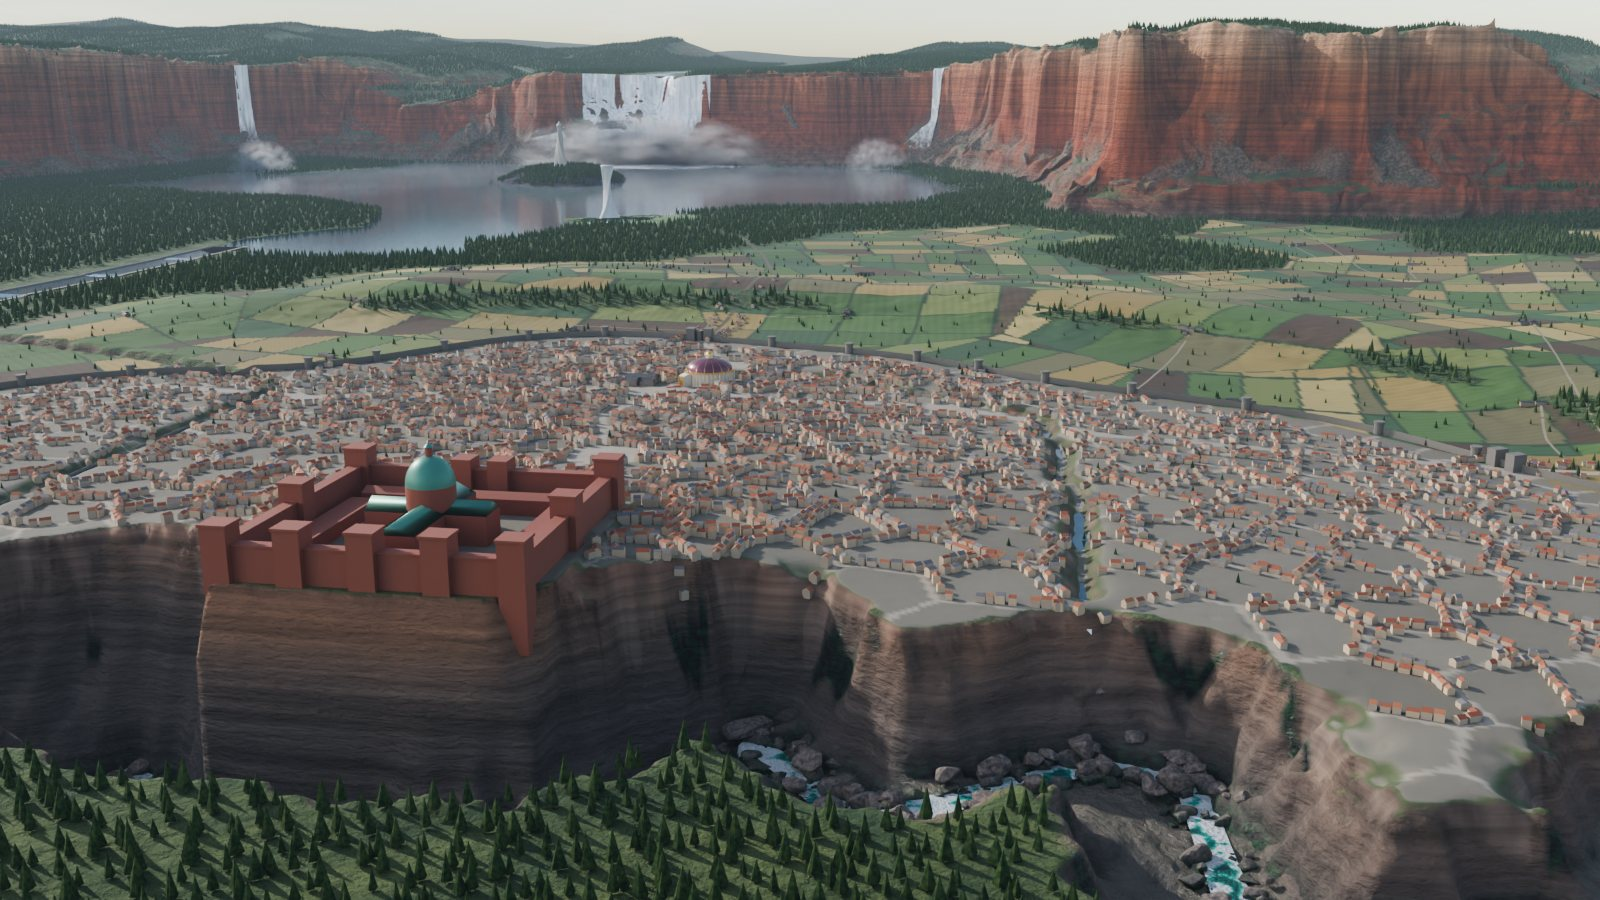
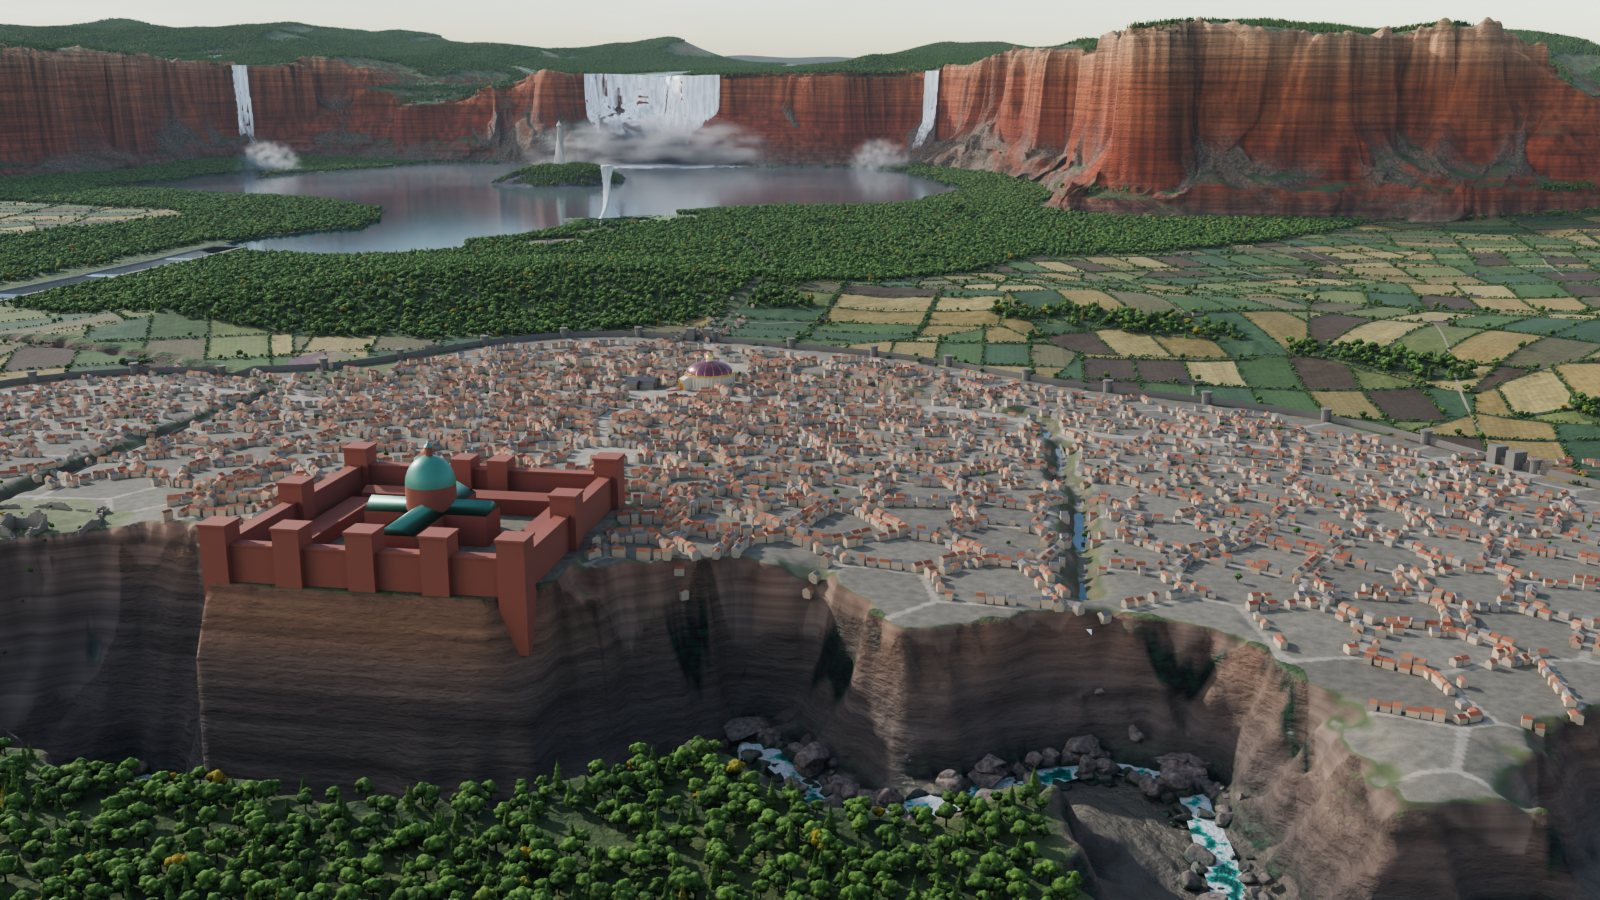
The barony joined to the road: Shadowmoon on the south bank, the Way along the river
Shadowmoon Village now has a place: the Rauvin's south bank, south-east of New
Kossenberg, with a ferry to the Trade Way. Luumsh's tribe settled there directly,
so Old Kossenberg is only a ruin. The Trade Way comes up the river's north bank
from the south-east.

The hollow at the east end of the Red Hills is gone: the wedge's surface lay below
the basement there, and the model now keeps a skin of weak beds on it. All renders
and both maps are redone from the new land, with High-Hold on its prow and pins
for Moondancer Village, Tark's Treehouse, the Red Hill, Oldstone, the ranger lodge
and where the Ziggurat stood.

Claude-Session: https://claude.ai/code/session_01CacC3kcDPTqHS8f3YVmo4r

diff --git a/src/content/wiki/thunder-bluff.md b/src/content/wiki/thunder-bluff.md
@@ -29,6 +29,10 @@ places:
   - serinde-isle
   - feanons-tower
   - fane-of-selune
+  - shadowmoon-village
+  - high-hold
+  - tarks-treehouse
+  - moondancer-village
   - the-moonwood
 ---
 
@@ -82,7 +86,7 @@ East and west of the lake the cliffs do not end so much as fade. The red sandsto
 
 South of the lake lies the Thunder Bluff shelf — a broad bench of ancient, hard rock, planed nearly flat, with low hills left standing where the rock resisted. The shore of the lake is still moor and wood, crossed by a single road to the [[fane-of-selune|Fane]]. Beyond it the land has gone under the plough, and it is farmed in hedged fields from the cliffs' foot to the city's walls.
 
-The Trade Way crosses the shelf from south-east to north-west and is its one great road: broad, paved in pale stone and lined with trees outside the walls, with hamlets along it and New Kossenberg as its main street.
+The Trade Way comes up the north bank of the Rauvin from the south-east, keeping to the river until the shelf opens out, and crosses it to the north-west. It is the shelf's one great road: broad and well metalled, with worn shoulders and old trees along it outside the walls, hamlets at its halts, and New Kossenberg as its main street.
 
 The lake's river leaves by its old course and runs down the west side of the city, held to its line by stone banks and low weirs. The land to the west lies lower than the water; without the barony's works, the river would leave. Two cuts bleed water off it through the city for boats and for high water, and a millrace drives the wheels of the [[rockseeker-manufactory|Rockseeker Manufactory]].
 
@@ -147,9 +151,19 @@ When the party first arrived, the ranger Moogie gave them a survey: the ruined c
 
 ## Settlement
 
-A tribe of orc deserters who had fled the Horde and been driven from caves beneath the bluff by the spirit troll Shadowclaw were the barony's first citizens. The party offered them Old Kossenberg in exchange for proof of strength — destroying Shadowclaw from the caverns. Freed slaves from across the North later made their way to [[selunia|Selunia]], drawn by the promise of a fresh start.
+A tribe of orc deserters who had fled the Horde and been driven from caves beneath the bluff by the spirit troll Shadowclaw were the barony's first citizens. The party offered them land in the barony — the ruins of Old Kossenberg were the first thing named — in exchange for proof of strength: destroying Shadowclaw from the caverns. The tribe settled in Thunder Bluff itself, at [[shadowmoon-village|Shadowmoon Village]] on the Rauvin's south bank, south-east of the city. Freed slaves from across the North later made their way to [[selunia|Selunia]], drawn by the promise of a fresh start.
+
+<figure class="plate">
+<img src="/images/barony/shadowmoon_air.jpg" alt="Shadowmoon Village behind its palisade among strip fields on the south bank of the Rauvin, with the river running up to white water, New Kossenberg and the Keep on the rim beyond, and the falls of the Red Hills in the distance." width="1600" height="900" loading="lazy" />
+<figcaption>Shadowmoon Village on the south bank, looking up the shelf past the Doorstep to the city and the falls.</figcaption>
+</figure>
 
 ## Other Landmarks
+
+<figure class="plate">
+<img src="/images/barony/high_hold.jpg" alt="The broken walls and collapsed keep of High-Hold on the rim of the gorge, with New Kossenberg's houses stopping short of it and the red cliffs and falls far behind." width="1600" height="900" loading="lazy" />
+<figcaption>High-Hold, on the next prow west of the Keep.</figcaption>
+</figure>
 
 - **[[snorbuls-hole|Snorbul's Hole]]** — underground fighting arena
 - **[[tarks-treehouse|Tark's Treehouse]]** — Tark's home, high in a towering oak

diff --git a/src/content/wiki/luumsh.md b/src/content/wiki/luumsh.md
@@ -11,8 +11,8 @@ home: "thunder-bluff"
 
 Luumsh is the leader of a tribe of Orc deserters who fled the Horde during its invasion of the region two years prior. Rather than fight to the death in a war they did not believe in, Luumsh led his people into the Evermoors, where they lost many before settling in caves beneath Thunder Bluff. The tribe prospered briefly until a spirit troll called Shadowclaw drove them to the surface, forcing them into the ruins of High Hold for the winter.
 
-When the group arrived — the new lords of the barony — Luumsh initially feared expulsion. His tribe grew agitated until Cirrus made the opposite clear: they were looking for citizens, not enemies. In exchange for safety and the settlement of Old Kossenberg, the orcs would work the land and contribute to the barony's defence.
+When the group arrived — the new lords of the barony — Luumsh initially feared expulsion. His tribe grew agitated until Cirrus made the opposite clear: they were looking for citizens, not enemies. In exchange for safety and land of their own — the ruins of Old Kossenberg were the first thing offered — the orcs would work the land and contribute to the barony's defence.
 
-Luumsh put a condition on the deal: prove your strength by destroying Shadowclaw. The group obliged, and the tribe erupted in cheers when everyone returned alive. Over Ankheg stew and storytelling, the orcs became convinced the group had been sent by Gruumsh himself. Luumsh declared he would settle Old Kossenberg and gather other like-minded tribes for the great war Tark warned was coming.
+Luumsh put a condition on the deal: prove your strength by destroying Shadowclaw. The group obliged, and the tribe erupted in cheers when everyone returned alive. Over Ankheg stew and storytelling, the orcs became convinced the group had been sent by Gruumsh himself. Luumsh declared he would gather other like-minded tribes for the great war Tark warned was coming. In the end the tribe settled in Thunder Bluff itself, on the south bank of the Rauvin, at what became [[shadowmoon-village|Shadowmoon Village]].
 
 He is supported by Keek, a little old lady-orc and shaman of Luthic, who serves as both spiritual advisor and cook.

diff --git a/src/content/wiki/shadowmoon-village.md b/src/content/wiki/shadowmoon-village.md
@@ -3,10 +3,14 @@ title: "Shadowmoon Village"
 category: "Places"
 aliases: ["Shadowmoon Village", "Shadowmoon Clan"]
 firstAppearance: "chapter-06-session-15"
-description: "The Orc settlement of the Shadowmoon Clan — allies of the Barony — lying between the Evermoors and Thunder Bluff."
+description: "The Orc settlement of the Shadowmoon Clan — allies of the Barony — on the Rauvin's south bank, south-east of New Kossenberg, between the river and the Evermoors."
+image: "/images/barony/shadowmoon_air.jpg"
+imageAlt: "Shadowmoon Village behind its palisade among strip fields on the south bank of the Rauvin, with New Kossenberg and the falls beyond"
 home: "thunder-bluff"
 ---
 
 Shadowmoon Village is home to the Orc tribe led by [[luumsh|Luumsh]] and Keek — deserters who fled the Horde two years before the party's arrival, settled on the land between the [[the-evermoors|Evermoors]] and the Barony of [[thunder-bluff|Thunder Bluff]] after proving their strength by destroying the spirit troll Shadowclaw. As the tribe grew and formalised its identity under the Barony's banner, they became known as the Shadowmoon Clan, and their settlement as Shadowmoon Village.
+
+The village stands on the south bank of the [[thunder-rapids|Rauvin]], south-east of [[kossenberg|New Kossenberg]], where the river still runs quiet and nearly level with the land before it reaches the Doorstep and the [[thunder-rapids|Thunder Rapids]]. A palisade rings round huts, longhouses and a moot hall, with the clan's fields outside it and the moors beginning beyond them. A rope ferry crosses the quiet reach to the [[thunder-bluff|Trade Way]] on the far bank, and a lesser road runs east along the south bank.
 
 Shadowmoon Village stands as one of the Barony's first and staunchest allied settlements, its people working the land and contributing to Thunder Bluff's defence in exchange for citizenship and safety.

diff --git a/src/content/wiki/kossenberg.md b/src/content/wiki/kossenberg.md
@@ -24,8 +24,8 @@ The lake's river runs down the city's west side between stone banks, stepped dow
 
 ## Old Kossenberg
 
-Far off in the hills to the north-east lie the ruins of Old Kossenberg — the original town, destroyed two years prior to the group's arrival by the Orcish Horde during its devastating sweep through the region. The ruins were offered by the group as a settlement site for Luumsh's tribe of Orc deserters, with the ranger Moogie volunteering to break the news to Kossenberg's current residents over the coming months. A century of peaceful coexistence between humans and orcs in the region prior to the Horde's invasion gives some hope that the arrangement can work.
+Far off in the hills to the north-east lie the ruins of Old Kossenberg — the original town, destroyed two years prior to the group's arrival by the Orcish Horde during its devastating sweep through the region. The ruins were first offered to [[luumsh|Luumsh]]'s tribe of Orc deserters, but the tribe settled at [[shadowmoon-village|Shadowmoon Village]] on the Rauvin instead, and the old town stands empty, going back to the hills.
 
 ## Surrounding Landmarks
 
-The barony's other notable features include Lake Selûna and its ranger lodge, the Red Hill with its iron deposits and the Glittering Caves beneath, and Oldstone — a sacred menhir older than local memory.
+The barony's other notable features include [[high-hold|High-Hold]], the ruined castle on the next prow of the bluff, which the city has grown around and will not build on; Lake Selûna and its ranger lodge on the western shore; the Red Hill at the foot of the eastern cliffs, with its iron workings and the Glittering Caves beneath; and Oldstone — a sacred menhir older than local memory, on the highest rise of the eastern shelf.

diff --git a/src/content/wiki/high-hold.md b/src/content/wiki/high-hold.md
@@ -4,9 +4,13 @@ category: "Places"
 aliases: ["High-Hold", "Moorwatch"]
 firstAppearance: "chapter-06-session-15"
 description: "A ruined castle atop Thunder Bluff destroyed by the Orcish Horde, later occupied by Luumsh's tribe and haunted by Commander Harold Ophrella's ghost."
+image: "/images/barony/high_hold.jpg"
+imageAlt: "The broken walls and collapsed keep of High-Hold on the rim of the gorge, seen from across the Rauvin"
 ---
 
 High-Hold — known locally as Moorwatch — is a ruined castle perched atop the thousand-foot cliff of Thunder Bluff, overlooking the thunderous rapids of the river Rauvin. Destroyed two years prior by the Orcish Horde during their devastating sweep through the region, the castle's walls are broken, its keep partially collapsed, and its corridors open to the sky.
+
+It stands on the next prow of the bluff west of the [[keep-of-thunder-bluff|Keep]], above the lower ledges of the [[thunder-rapids|Thunder Rapids]]. [[kossenberg|New Kossenberg]] has since grown up on three sides of it, and nobody builds on it: saplings stand in the bailey, and the houses stop at the old ditch.
 
 ## The Orc Occupation
 

diff --git a/src/content/wiki/tarks-treehouse.md b/src/content/wiki/tarks-treehouse.md
@@ -4,6 +4,8 @@ category: "Places"
 aliases: []
 firstAppearance: "chapter-01-session-01"
 description: "An elaborate, whimsical treehouse deep in the forests of Thunder Bluff where Tark resides."
+image: "/images/barony/treehouse.jpg"
+imageAlt: "A vast old oak standing over the forest east of Lake Selûna, with cobbled platforms round its trunk"
 ---
 
 Tark's Treehouse is situated high up in a towering oak deep in the forests of Thunder Bluff. It is an elaborate structure cobbled together from an assortment of boards, ropes, canvas, and other found materials — reflecting Tark's creative and resourceful nature.
